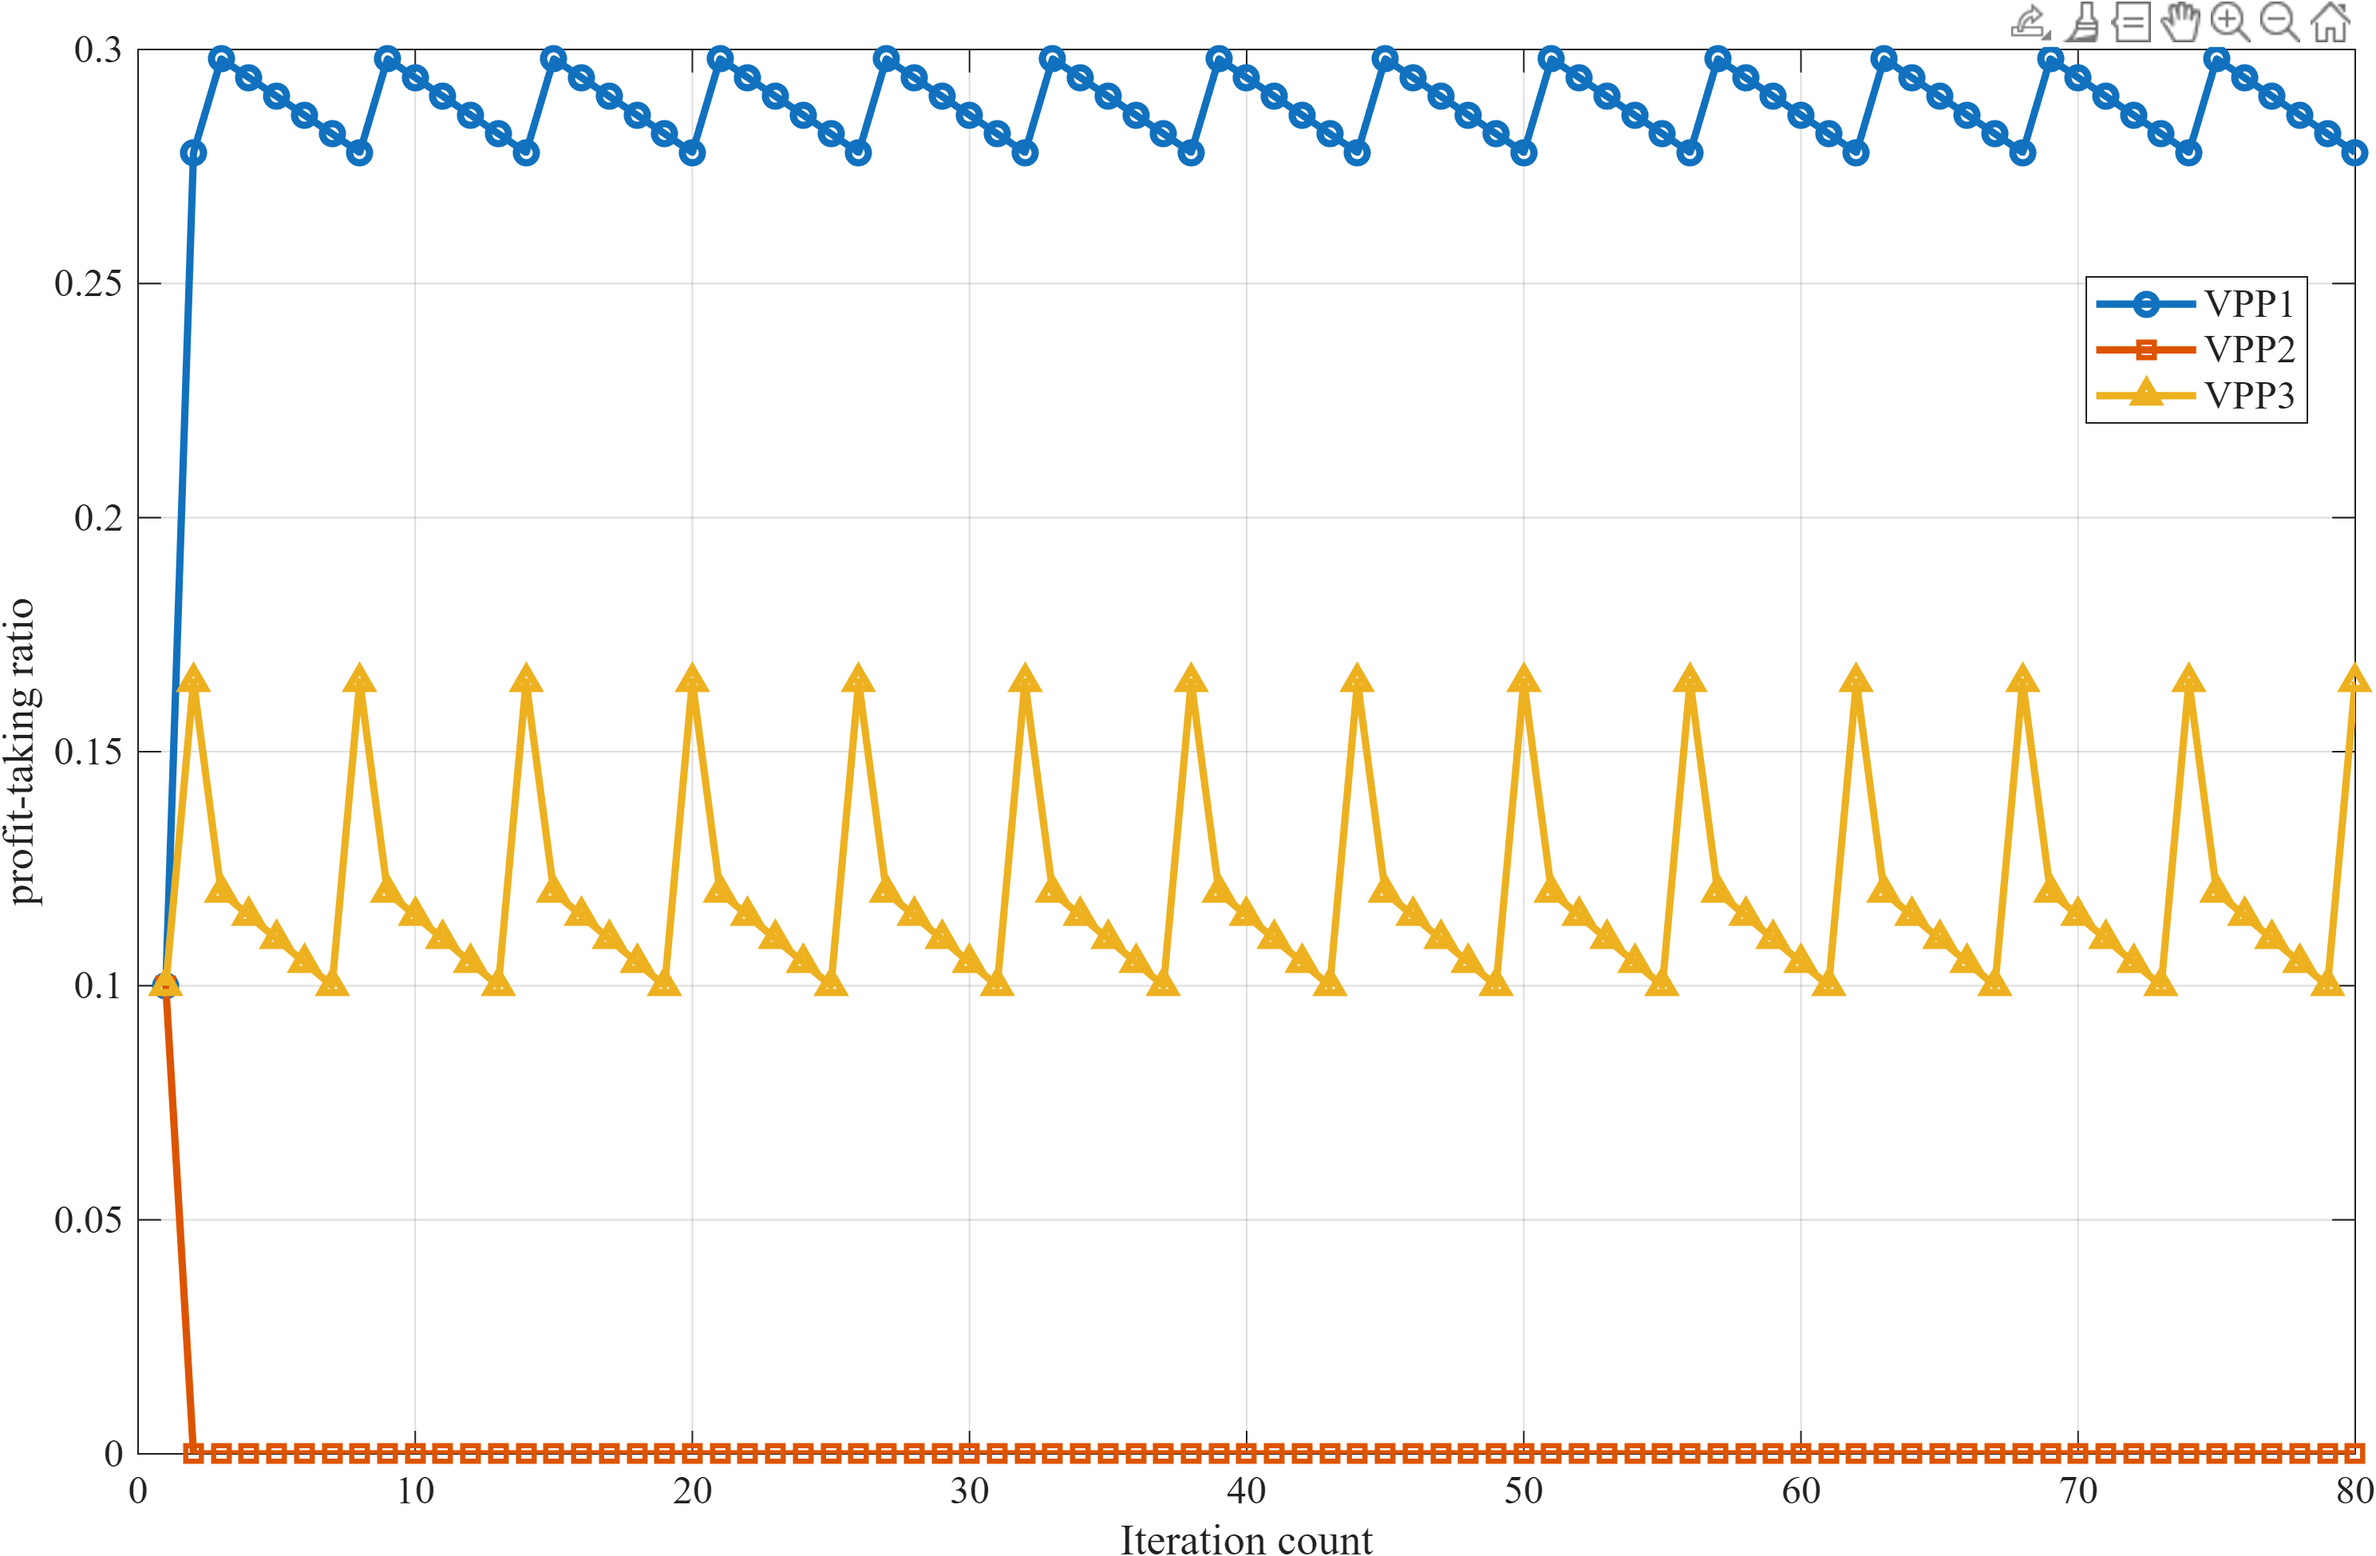
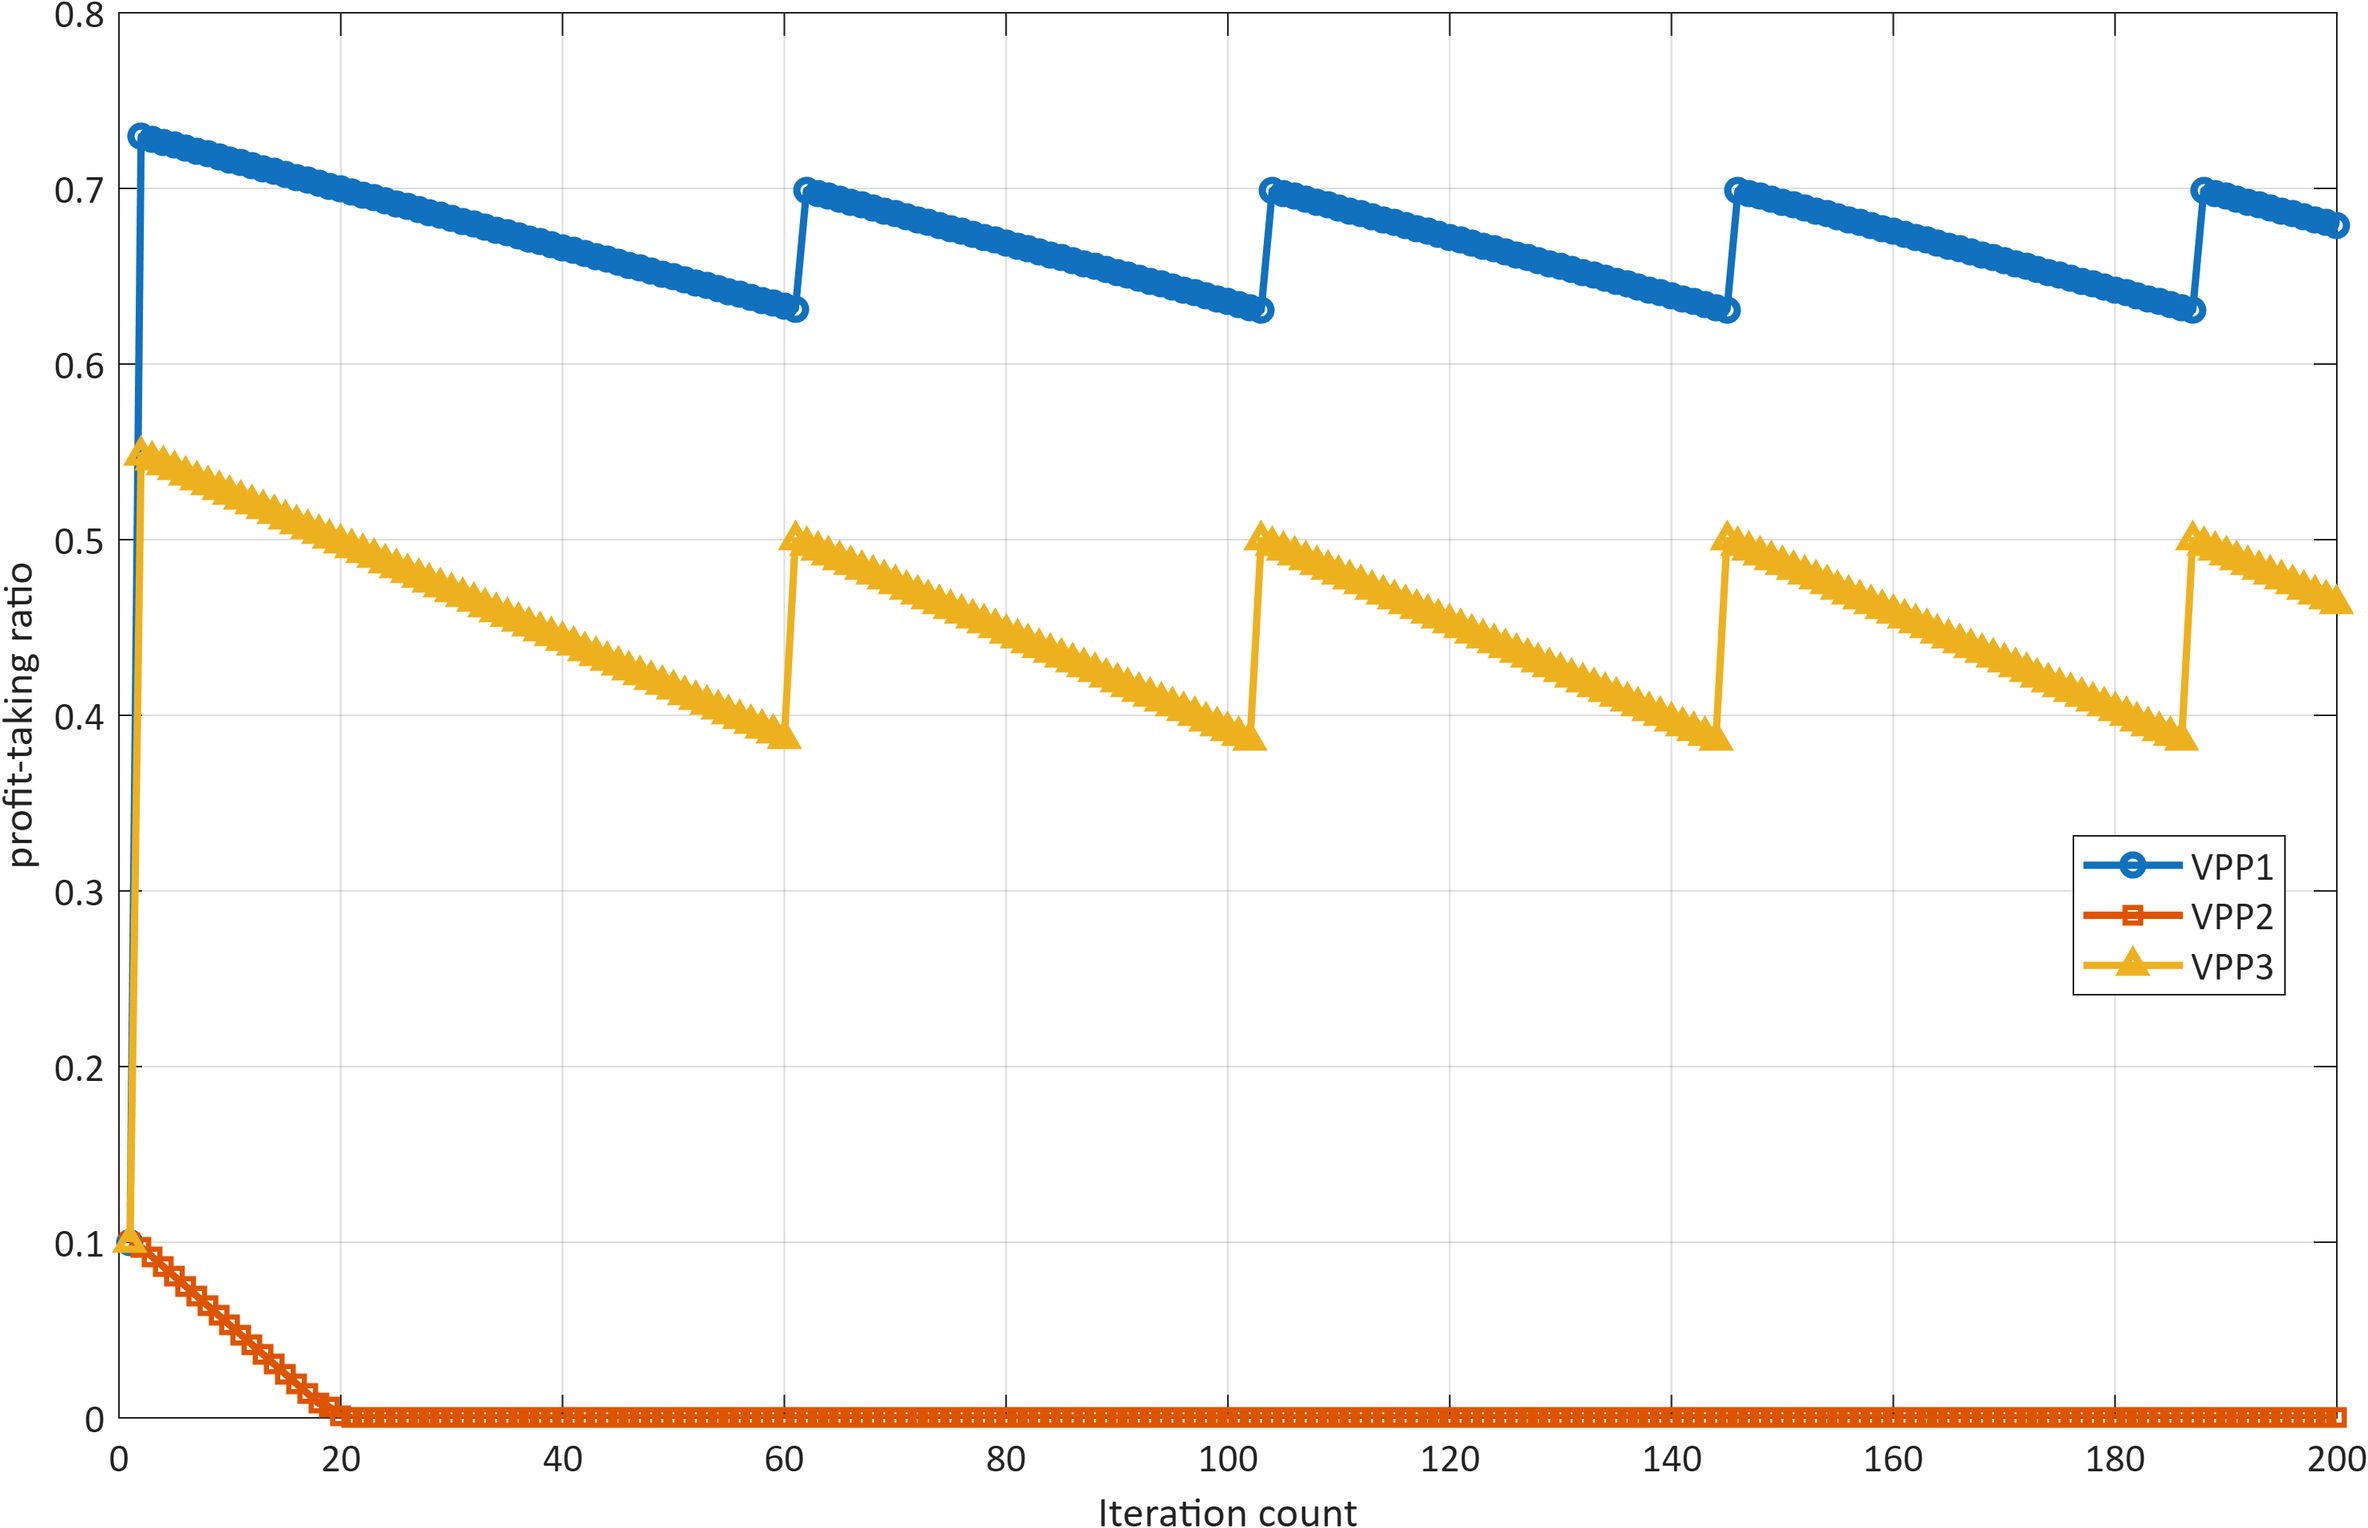
update the correct solution

Changed region(s): [[0.0, 0.0, 1.0, 1.0]]

diff --git a/Sub_VPP_1.m b/Sub_VPP_1.m
@@ -1,7 +1,7 @@
 function solution_1=Sub_VPP_1(x_2,x_3,eps)
     switching_1=0;
-    switching_2=35;
-    switching_3=20;
+    switching_2=30;
+    switching_3=60;
     %DER-1+DER-2:100 ,DER-1+DER-3:120,DER-2+DER-3:80 
     solution_1=struct();
     F=[];
@@ -27,8 +27,8 @@ function solution_1=Sub_VPP_1(x_2,x_3,eps)
     % Transferred KKT Conditions 
     %DER1
     F=[F EPR_1(1)==0];
-    F=[F EPR_1(2)==50*(1-x_2)-switching_1];
-    F=[F EPR_1(3)==60*(1-x_3)-switching_1];
+    F=[F EPR_1(2)==120*(1-x_2)-switching_1];
+    F=[F EPR_1(3)==240*(1-x_3)-switching_1];
     for i=1:3
         F=[F y_1(i)<=K_1(i)*M];
         F=[F mu_1(i)<= (1-K_1(i))*M];
@@ -40,9 +40,9 @@ function solution_1=Sub_VPP_1(x_2,x_3,eps)
 
     %DER2
     EPR_2=sdpvar(3,1);
-    F=[F EPR_2(1)==50*(1-x_1)-switching_2];
+    F=[F EPR_2(1)==120*(1-x_1)-switching_2];
     F=[F EPR_2(2)==0];
-    F=[F EPR_2(3)==40*(1-x_3)-switching_2];
+    F=[F EPR_2(3)==72*(1-x_3)-switching_2];
     for i=1:3
         F=[F y_2(i)<=K_2(i)*M];
         F=[F mu_2(i)<= (1-K_2(i))*M];
@@ -54,8 +54,8 @@ function solution_1=Sub_VPP_1(x_2,x_3,eps)
 
     %DER3
     EPR_3=sdpvar(3,1);
-    F=[F EPR_3(1)==60*(1-x_1)-switching_3];
-    F=[F EPR_3(2)==40*(1-x_2)-switching_3];
+    F=[F EPR_3(1)==240*(1-x_1)-switching_3];
+    F=[F EPR_3(2)==72*(1-x_2)-switching_3];
     F=[F EPR_3(3)==0];
     for i=1:3
         F=[F y_3(i)<=K_3(i)*M];
@@ -66,7 +66,7 @@ function solution_1=Sub_VPP_1(x_2,x_3,eps)
     F=[F mu_3>=0];
     F=[F y_3 >=0];
 
-    obj=x_1*(100*y_2(1)+120*y_3(1))+switching_1*(1-y_1(1));
+    obj=x_1*(240*y_2(1)+480*y_3(1))+switching_1*(1-y_1(1));
 
     %optimization settings
     ops=sdpsettings('solver','gurobi');

diff --git a/Sub_VPP_3.m b/Sub_VPP_3.m
@@ -1,7 +1,7 @@
 function solution_1=Sub_VPP_3(x_1,x_2,eps)
     switching_1=0;
-    switching_2=35;
-    switching_3=20;
+    switching_2=30;
+    switching_3=60;
     %DER-1+DER-2:100 ,DER-1+DER-3:120,DER-2+DER-3:80 
     solution_1=struct();
     F=[];
@@ -27,8 +27,8 @@ function solution_1=Sub_VPP_3(x_1,x_2,eps)
     % Transferred KKT Conditions 
     %DER1
     F=[F EPR_1(1)==0];
-    F=[F EPR_1(2)==50*(1-x_2)-switching_1];
-    F=[F EPR_1(3)==60*(1-x_3)-switching_1];
+    F=[F EPR_1(2)==120*(1-x_2)-switching_1];
+    F=[F EPR_1(3)==240*(1-x_3)-switching_1];
     for i=1:3
         F=[F y_1(i)<=K_1(i)*M];
         F=[F mu_1(i)<= (1-K_1(i))*M];
@@ -40,9 +40,9 @@ function solution_1=Sub_VPP_3(x_1,x_2,eps)
 
     %DER2
     EPR_2=sdpvar(3,1);
-    F=[F EPR_2(1)==50*(1-x_1)-switching_2];
+    F=[F EPR_2(1)==120*(1-x_1)-switching_2];
     F=[F EPR_2(2)==0];
-    F=[F EPR_2(3)==40*(1-x_3)-switching_2];
+    F=[F EPR_2(3)==72*(1-x_3)-switching_2];
     for i=1:3
         F=[F y_2(i)<=K_2(i)*M];
         F=[F mu_2(i)<= (1-K_2(i))*M];
@@ -54,8 +54,8 @@ function solution_1=Sub_VPP_3(x_1,x_2,eps)
 
     %DER3
     EPR_3=sdpvar(3,1);
-    F=[F EPR_3(1)==60*(1-x_1)-switching_3];
-    F=[F EPR_3(2)==40*(1-x_2)-switching_3];
+    F=[F EPR_3(1)==240*(1-x_1)-switching_3];
+    F=[F EPR_3(2)==72*(1-x_2)-switching_3];
     F=[F EPR_3(3)==0];
     for i=1:3
         F=[F y_3(i)<=K_3(i)*M];
@@ -67,7 +67,7 @@ function solution_1=Sub_VPP_3(x_1,x_2,eps)
     F=[F y_3 >=0];
 
 
-    obj=x_3*(120*y_1(3)+80*y_2(3))+switching_3*(1-y_3(3));
+    obj=x_3*(480*y_1(3)+144*y_2(3))+switching_3*(1-y_3(3));
 
     %optimization settings
     ops=sdpsettings('solver','gurobi');

diff --git a/Sub_VPP_2.m b/Sub_VPP_2.m
@@ -1,7 +1,7 @@
 function solution_1=Sub_VPP_2(x_1,x_3,eps)
     switching_1=0;
-    switching_2=35;
-    switching_3=20;
+    switching_2=30;
+    switching_3=60;
     %DER-1+DER-2:100 ,DER-1+DER-3:120,DER-2+DER-3:80 
     solution_1=struct();
     F=[];
@@ -27,8 +27,8 @@ function solution_1=Sub_VPP_2(x_1,x_3,eps)
     % Transferred KKT Conditions 
     %DER1
     F=[F EPR_1(1)==0];
-    F=[F EPR_1(2)==50*(1-x_2)-switching_1];
-    F=[F EPR_1(3)==60*(1-x_3)-switching_1];
+    F=[F EPR_1(2)==120*(1-x_2)-switching_1];
+    F=[F EPR_1(3)==240*(1-x_3)-switching_1];
     for i=1:3
         F=[F y_1(i)<=K_1(i)*M];
         F=[F mu_1(i)<= (1-K_1(i))*M];
@@ -40,9 +40,9 @@ function solution_1=Sub_VPP_2(x_1,x_3,eps)
 
     %DER2
     EPR_2=sdpvar(3,1);
-    F=[F EPR_2(1)==50*(1-x_1)-switching_2];
+    F=[F EPR_2(1)==120*(1-x_1)-switching_2];
     F=[F EPR_2(2)==0];
-    F=[F EPR_2(3)==40*(1-x_3)-switching_2];
+    F=[F EPR_2(3)==72*(1-x_3)-switching_2];
     for i=1:3
         F=[F y_2(i)<=K_2(i)*M];
         F=[F mu_2(i)<= (1-K_2(i))*M];
@@ -54,8 +54,8 @@ function solution_1=Sub_VPP_2(x_1,x_3,eps)
 
     %DER3
     EPR_3=sdpvar(3,1);
-    F=[F EPR_3(1)==60*(1-x_1)-switching_3];
-    F=[F EPR_3(2)==40*(1-x_2)-switching_3];
+    F=[F EPR_3(1)==240*(1-x_1)-switching_3];
+    F=[F EPR_3(2)==72*(1-x_2)-switching_3];
     F=[F EPR_3(3)==0];
     for i=1:3
         F=[F y_3(i)<=K_3(i)*M];
@@ -68,7 +68,7 @@ function solution_1=Sub_VPP_2(x_1,x_3,eps)
 
 
 
-    obj=x_2*(100*y_1(2)+80*y_3(2))+switching_2*(1-y_2(2));
+    obj=x_2*(240*y_1(2)+144*y_3(2))+switching_2*(1-y_2(2));
 
     %optimization settings
     ops=sdpsettings('solver','gurobi');

diff --git a/Plot_Profit_Taking_Ratio.m b/Plot_Profit_Taking_Ratio.m
@@ -19,11 +19,11 @@ plot(iteration_count, storage_plot(:, 3), '-^', ...
     'LineWidth', 2.2, 'MarkerSize', 6);
 hold off;
 
-set(gca, 'FontName', 'Times New Roman', 'FontSize', 12);
-xlabel('Iteration count', 'FontName', 'Times New Roman', 'FontSize', 13);
-ylabel('profit-taking ratio', 'FontName', 'Times New Roman', 'FontSize', 13);
+set(gca, 'FontName', 'Calibri', 'FontSize', 12);
+xlabel('Iteration count', 'FontName', 'Calibri', 'FontSize', 13);
+ylabel('profit-taking ratio', 'FontName', 'Calibri', 'FontSize', 13);
 legend({'VPP1', 'VPP2', 'VPP3'}, ...
-    'FontName', 'Times New Roman', 'FontSize', 12, 'Location', 'best');
+    'FontName', 'Calibri', 'FontSize', 12, 'Location', 'best');
 grid on;
 box on;
 

diff --git a/Gauss_Iteration.m b/Gauss_Iteration.m
@@ -6,7 +6,7 @@ x_2=0.1;
 x_3=0.1;
 % Step size and convergence threshold.
 epis=0.1;
-conver=1e-8;
+conver=1e-10;
 % Loop control and history.
 storage=zeros(1000,3);
 afflication_1=zeros(1000,3);
@@ -15,7 +15,7 @@ afflication_3=zeros(1000,3);
 
 % Seed the history to allow the first difference computation.
 storage(1,:)=[x_1,x_2,x_3];
-for iteration=2:80
+for iteration=2:200
     % Solve subproblem 1 with current x_2.
     solution_1=Sub_VPP_1(x_2,x_3, epis);
     x_1=solution_1.x_1;
